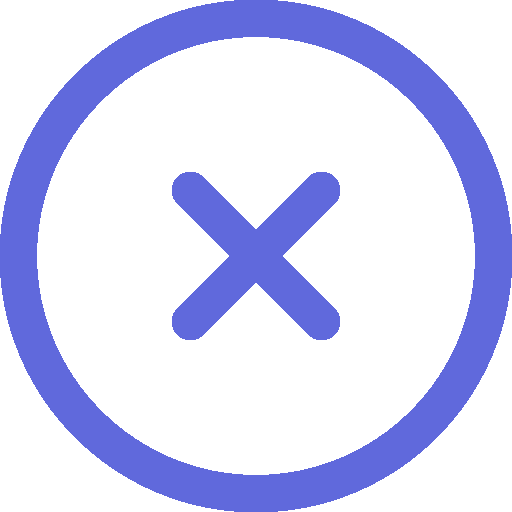
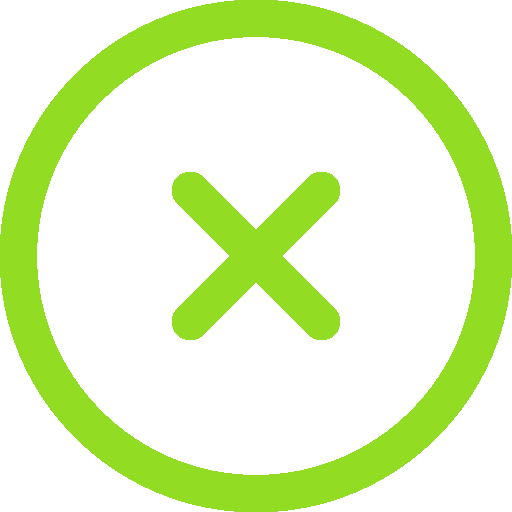
Added calendar widget

Changed region(s): [[0.0, 0.0, 1.0, 1.0], [0.3125, 0.3125, 0.6875, 0.6875]]

diff --git a/SmallLister.Web/wwwroot/lib/pickmeup/pickmeup.min.js b/SmallLister.Web/wwwroot/lib/pickmeup/pickmeup.min.js
@@ -1,0 +1,36 @@
+/*
+ 0BSD
+*/
+(function(F,y){"function"===typeof define&&define.amd?define(y):"object"===typeof exports?module.exports=y():F.pickmeup=y()})(this,function(){function F(a,c,b){b=b||[];if(a instanceof Element)c.apply(c,[a].concat(b));else{var d;var e=a.length;for(d=0;d<e;++d)c.apply(c,[a[d]].concat(b))}}function y(a){F(a,function(a){a.parentElement.removeChild(a)})}function J(a,c){do a=a.parentElement;while(a&&!B(a,c));return a}function B(a,c){return(a.matches||a.webkitMatchesSelector||a.msMatchesSelector).call(a,
+c)}function k(a,c){return a&&a.classList.contains(c)}function l(a,c){a.classList.add(c)}function q(a,c,b,d){if(-1!==b.indexOf(" ")){b=b.split(" ");var e=b.length,h;for(h=0;h<e;++h)q(a,c,b[h],d)}else a.__pickmeup.events.push([c,b,d]),c.addEventListener(b,d)}function z(a,c,b,d){var e;if(b&&-1!==b.indexOf(" ")){var h=b.split(" ");var l=h.length;for(e=0;e<l;++e)z(a,c,h[e],d)}else for(h=a.__pickmeup.events,l=h.length,e=0;e<l;++e)c&&c!==h[e][0]||b&&b!==h[e][1]||d&&d!==h[e][2]||h[e][0].removeEventListener(h[e][1],
+h[e][2])}function M(a){a=a.getBoundingClientRect();return{top:a.top+window.pageYOffset-document.documentElement.clientTop,left:a.left+window.pageXOffset-document.documentElement.clientLeft}}function C(a,c,b){var d=document.createEvent("Event");b&&(d.detail=b);d.initEvent("pickmeup-"+c,!1,!0);return a.dispatchEvent(d)}function K(a){a=new Date(a);for(var c=28,b=a.getMonth();a.getMonth()===b;)++c,a.setDate(c);return c-1}function A(a,c){a.setDate(a.getDate()+c)}function p(a,c){var b=a.getDate();a.setDate(1);
+a.setMonth(a.getMonth()+c);a.setDate(Math.min(b,K(a)))}function u(a,c){var b=a.getDate();a.setDate(1);a.setFullYear(a.getFullYear()+c);a.setDate(Math.min(b,K(a)))}function N(a){var c=a.__pickmeup.element,b=a.__pickmeup.options,d=Math.floor(b.calendars/2),e=b.date,h=b.current,m=b.min?new Date(b.min):null,v=b.max?new Date(b.max):null;m&&(m.setDate(1),p(m,1),A(m,-1));v&&(v.setDate(1),p(v,1),A(v,-1));y(Array.prototype.slice.call(c.querySelectorAll(".pmu-instance > :not(nav)")));for(var w=0;w<b.calendars;w++){var f=
+new Date(h);x(f);var n=Array.prototype.slice.call(c.querySelectorAll(".pmu-instance"))[w];if(k(c,"pmu-view-years")){u(f,12*(w-d));var G=f.getFullYear()-6+" - "+(f.getFullYear()+5)}else k(c,"pmu-view-months")?(u(f,w-d),G=f.getFullYear()):k(c,"pmu-view-days")&&(p(f,w-d),G="function"===typeof b.title_format?b.title_format(f,b.locales[b.locale]):D(f,b.title_format,b.locales[b.locale]));if(!r&&v){var r=new Date(f);b.select_day?p(r,b.calendars-1):b.select_month?u(r,b.calendars-1):u(r,12*(b.calendars-1));
+if(r>v){--w;p(h,-1);r=void 0;continue}}r=new Date(f);if(!g){var g=new Date(f);g.setDate(1);p(g,1);A(g,-1);if(m&&m>g){--w;p(h,1);g=void 0;continue}}n.querySelector(".pmu-month").innerHTML=G;var q=function(a){return"range"===b.mode&&a>=(new Date(e[0])).getFullYear()&&a<=(new Date(e[1])).getFullYear()||"multiple"===b.mode&&-1!==e.reduce(function(a,b){a.push((new Date(b)).getFullYear());return a},[]).indexOf(a)||(new Date(e)).getFullYear()===a},t=function(a,c){var d=(new Date(e[0])).getFullYear(),f=(new Date(e[1])).getFullYear(),
+h=(new Date(e[0])).getMonth(),g=(new Date(e[1])).getMonth();return"range"===b.mode&&(a>d&&a<f||a>d&&a===f&&c<=g||a===d&&a<f&&c>=h||a===d&&a===f&&c>=h&&c<=g)||"multiple"===b.mode&&-1!==e.reduce(function(a,b){b=new Date(b);a.push(b.getFullYear()+"-"+b.getMonth());return a},[]).indexOf(a+"-"+c)||(new Date(e)).getFullYear()===a&&(new Date(e)).getMonth()===c};(function(){var a=[],c=f.getFullYear()-6,d=(new Date(b.min)).getFullYear(),e=(new Date(b.max)).getFullYear(),h;for(h=0;12>h;++h){var g=c+h;var m=
+document.createElement("div");m.textContent=g;m.__pickmeup_year=g;b.min&&g<d||b.max&&g>e?l(m,"pmu-disabled"):q(g)&&l(m,"pmu-selected");a.push(m)}n.appendChild(b.instance_content_template(a,"pmu-years"))})();(function(){var a=[],c=f.getFullYear(),d=(new Date(b.min)).getFullYear(),e=(new Date(b.min)).getMonth(),g=(new Date(b.max)).getFullYear(),h=(new Date(b.max)).getMonth(),m;for(m=0;12>m;++m){var k=document.createElement("div");k.textContent=b.locales[b.locale].monthsShort[m];k.__pickmeup_month=m;
+k.__pickmeup_year=c;b.min&&(c<d||m<e&&c===d)||b.max&&(c>g||m>h&&c>=g)?l(k,"pmu-disabled"):t(c,m)&&l(k,"pmu-selected");a.push(k)}n.appendChild(b.instance_content_template(a,"pmu-months"))})();(function(){var a=[],c=f.getMonth(),d=x(new Date).valueOf(),e;(function(){f.setDate(1);var a=(f.getDay()-b.first_day)%7;A(f,-(a+(0>a?7:0)))})();for(e=0;42>e;++e){var g=document.createElement("div");g.textContent=f.getDate();g.__pickmeup_day=f.getDate();g.__pickmeup_month=f.getMonth();g.__pickmeup_year=f.getFullYear();
+c!==f.getMonth()&&l(g,"pmu-not-in-month");0===f.getDay()?l(g,"pmu-sunday"):6===f.getDay()&&l(g,"pmu-saturday");var h=b.render(new Date(f))||{};var m=x(new Date(f)).valueOf();var k=b.min&&b.min>f||b.max&&b.max<f;var v=b.date.valueOf()===m||b.date instanceof Array&&b.date.reduce(function(a,b){return a||m===b.valueOf()},!1)||"range"===b.mode&&m>=b.date[0]&&m<=b.date[1];h.disabled||!("disabled"in h)&&k?l(g,"pmu-disabled"):(h.selected||!("selected"in h)&&v)&&l(g,"pmu-selected");m===d&&l(g,"pmu-today");
+h.class_name&&h.class_name.split(" ").forEach(l.bind(g,g));a.push(g);A(f,1)}n.appendChild(b.instance_content_template(a,"pmu-days"))})()}g.setDate(1);r.setDate(1);p(r,1);A(r,-1);d=c.querySelector(".pmu-prev");c=c.querySelector(".pmu-next");d&&(d.style.visibility=b.min&&b.min>=g?"hidden":"visible");c&&(c.style.visibility=b.max&&b.max<=r?"hidden":"visible");C(a,"fill")}function t(a,c){var b=c.format,d=c.separator,e=c.locales[c.locale];if(a instanceof Date||"number"===typeof a)return x(new Date(a));
+if(!a)return x(new Date);if(a instanceof Array){a=a.slice();for(b=0;b<a.length;++b)a[b]=t(a[b],c);return a}d=a.split(d);if(1<d.length)return d.forEach(function(a,b,d){d[b]=t(a.trim(),c)}),d;d=[].concat(e.daysShort,e.daysMin,e.days,e.monthsShort,e.months);d=d.map(function(a){return"("+a+")"});d=new RegExp("[^0-9a-zA-Z"+d.join("")+"]+");a=a.split(d);d=b.split(d);var h=new Date;for(b=0;b<a.length;b++)switch(d[b]){case "b":var m=e.monthsShort.indexOf(a[b]);break;case "B":m=e.months.indexOf(a[b]);break;
+case "d":case "e":var l=parseInt(a[b],10);break;case "m":m=parseInt(a[b],10)-1;break;case "Y":case "y":var k=parseInt(a[b],10);k+=100<k?0:29>k?2E3:1900;break;case "H":case "I":case "k":case "l":var f=parseInt(a[b],10);break;case "P":case "p":/pm/i.test(a[b])&&12>f?f+=12:/am/i.test(a[b])&&12<=f&&(f-=12);break;case "M":var n=parseInt(a[b],10)}e=new Date(void 0===k?h.getFullYear():k,void 0===m?h.getMonth():m,void 0===l?h.getDate():l,void 0===f?h.getHours():f,void 0===n?h.getMinutes():n,0);isNaN(1*e)&&
+(e=new Date);return x(e)}function x(a){a.setHours(0,0,0,0);return a}function D(a,c,b){var d=a.getMonth(),e=a.getDate(),h=a.getFullYear(),m=a.getDay(),k=a.getHours(),l=12<=k,f=l?k-12:k;var n=new Date(a.getFullYear(),a.getMonth(),a.getDate(),0,0,0);var p=new Date(a.getFullYear(),0,0,0,0,0);n=Math.floor((n-p)/864E5);0===f&&(f=12);p=a.getMinutes();var r=a.getSeconds();c=c.split("");for(var g,q=0;q<c.length;q++){g=c[q];switch(g){case "a":g=b.daysShort[m];break;case "A":g=b.days[m];break;case "b":g=b.monthsShort[d];
+break;case "B":g=b.months[d];break;case "C":g=1+Math.floor(h/100);break;case "d":g=10>e?"0"+e:e;break;case "e":g=e;break;case "H":g=10>k?"0"+k:k;break;case "I":g=10>f?"0"+f:f;break;case "j":g=100>n?10>n?"00"+n:"0"+n:n;break;case "k":g=k;break;case "l":g=f;break;case "m":g=9>d?"0"+(1+d):1+d;break;case "M":g=10>p?"0"+p:p;break;case "p":case "P":g=l?"PM":"AM";break;case "s":g=Math.floor(a.getTime()/1E3);break;case "S":g=10>r?"0"+r:r;break;case "u":g=m+1;break;case "w":g=m;break;case "y":g=(""+h).substr(2,
+2);break;case "Y":g=h}c[q]=g}return c.join("")}function O(a,c){var b=a.__pickmeup.options,d;x(c);a:switch(b.mode){case "multiple":var e=c.valueOf();for(d=0;d<b.date.length;++d)if(b.date[d].valueOf()===e){b.date.splice(d,1);break a}b.date.push(c);break;case "range":b.lastSel||(b.date[0]=c);c<=b.date[0]?(b.date[1]=b.date[0],b.date[0]=c):b.date[1]=c;b.lastSel=!b.lastSel;break;default:b.date=c.valueOf()}c=H(b);B(a,"input")&&(a.value="single"===b.mode?c.formatted_date:c.formatted_date.join(b.separator));
+C(a,"change",c);b.flat||!b.hide_on_select||"range"===b.mode&&b.lastSel||b.bound.hide()}function P(a,c){var b=c.target;k(b,"pmu-button")||(b=J(b,".pmu-button"));if(!k(b,"pmu-button")||k(b,"pmu-disabled"))return!1;c.preventDefault();c.stopPropagation();a=a.__pickmeup.options;var d=J(b,".pmu-instance");c=d.parentElement;d=Array.prototype.slice.call(c.querySelectorAll(".pmu-instance")).indexOf(d);B(b.parentElement,"nav")?k(b,"pmu-month")?(p(a.current,d-Math.floor(a.calendars/2)),k(c,"pmu-view-years")?
+(a.current="single"!==a.mode?new Date(a.date[a.date.length-1]):new Date(a.date),a.select_day?(c.classList.remove("pmu-view-years"),l(c,"pmu-view-days")):a.select_month&&(c.classList.remove("pmu-view-years"),l(c,"pmu-view-months"))):k(c,"pmu-view-months")?a.select_year?(c.classList.remove("pmu-view-months"),l(c,"pmu-view-years")):a.select_day&&(c.classList.remove("pmu-view-months"),l(c,"pmu-view-days")):k(c,"pmu-view-days")&&(a.select_month?(c.classList.remove("pmu-view-days"),l(c,"pmu-view-months")):
+a.select_year&&(c.classList.remove("pmu-view-days"),l(c,"pmu-view-years")))):k(b,"pmu-prev")?a.bound.prev(!1):a.bound.next(!1):k(c,"pmu-view-years")?(a.current.setFullYear(b.__pickmeup_year),a.select_month?(c.classList.remove("pmu-view-years"),l(c,"pmu-view-months")):a.select_day?(c.classList.remove("pmu-view-years"),l(c,"pmu-view-days")):a.bound.update_date(a.current)):k(c,"pmu-view-months")?(a.current.setMonth(b.__pickmeup_month),a.current.setFullYear(b.__pickmeup_year),a.select_day?(c.classList.remove("pmu-view-months"),
+l(c,"pmu-view-days")):a.bound.update_date(a.current),p(a.current,Math.floor(a.calendars/2)-d)):(c=new Date(a.current),c.setYear(b.__pickmeup_year),c.setMonth(b.__pickmeup_month),c.setDate(b.__pickmeup_day),a.bound.update_date(c));a.bound.fill();return!0}function H(a){if("single"===a.mode){var c=new Date(a.date);return{formatted_date:D(c,a.format,a.locales[a.locale]),date:c}}c={formatted_date:[],date:[]};a.date.forEach(function(b){b=new Date(b);c.formatted_date.push(D(b,a.format,a.locales[a.locale]));
+c.date.push(b)});return c}function I(a,c){var b=a.__pickmeup.element;if(c||k(b,"pmu-hidden")){var d=a.__pickmeup.options,e=M(a),h=window.pageXOffset,m=window.pageYOffset,l=document.documentElement.clientWidth,p=document.documentElement.clientHeight,f=e.top,n=e.left;d.bound.fill();B(a,"input")&&((c=a.value)&&d.bound.set_date(c),q(a,a,"keydown",function(a){9===a.which&&d.bound.hide()}),d.lastSel=!1);if(C(a,"show")&&!d.flat){b.classList.remove("pmu-hidden");if(d.position instanceof Function)e=d.position.call(a),
+n=e.left,f=e.top;else{switch(d.position){case "top":f-=b.offsetHeight;break;case "left":n-=b.offsetWidth;break;case "right":n+=a.offsetWidth;break;case "bottom":f+=a.offsetHeight}f+b.offsetHeight>m+p&&(f=e.top-b.offsetHeight);f<m&&(f=e.top+a.offsetHeight);n+b.offsetWidth>h+l&&(n=e.left-b.offsetWidth);n<h&&(n=e.left+a.offsetWidth);n+="px";f+="px"}b.style.left=n;b.style.top=f;setTimeout(function(){q(a,document.documentElement,"click",d.bound.hide);q(a,window,"resize",d.bound.forced_show)})}}}function Q(a,
+c){var b=a.__pickmeup.element,d=a.__pickmeup.options;c&&c.target&&(c.target===a||b.compareDocumentPosition(c.target)&16)||!C(a,"hide")||(l(b,"pmu-hidden"),z(a,document.documentElement,"click",d.bound.hide),z(a,window,"resize",d.bound.forced_show),d.lastSel=!1)}function R(a){var c=a.__pickmeup.options;z(a,document.documentElement,"click",c.bound.hide);z(a,window,"resize",c.bound.forced_show);c.bound.forced_show()}function S(a){a=a.__pickmeup.options;"single"!==a.mode&&(a.date=[],a.lastSel=!1,a.bound.fill())}
+function T(a,c){"undefined"==typeof c&&(c=!0);var b=a.__pickmeup.element;a=a.__pickmeup.options;k(b,"pmu-view-years")?u(a.current,-12):k(b,"pmu-view-months")?u(a.current,-1):k(b,"pmu-view-days")&&p(a.current,-1);c&&a.bound.fill()}function U(a,c){"undefined"==typeof c&&(c=!0);var b=a.__pickmeup.element;a=a.__pickmeup.options;k(b,"pmu-view-years")?u(a.current,12):k(b,"pmu-view-months")?u(a.current,1):k(b,"pmu-view-days")&&p(a.current,1);c&&a.bound.fill()}function V(a,c){var b=a.__pickmeup.options;a=
+H(b);return"string"===typeof c?(a=a.date,a instanceof Date?D(a,c,b.locales[b.locale]):a.map(function(a){return D(a,c,b.locales[b.locale])})):a[c?"formatted_date":"date"]}function W(a,c,b){var d=a.__pickmeup.options;if(!(c instanceof Array)||0<c.length)if(d.date=t(c,d),"single"!==d.mode)for(d.date instanceof Array?(d.date[0]=d.date[0]||t(new Date,d),"range"===d.mode&&(d.date[1]=d.date[1]||t(d.date[0],d))):(d.date=[d.date],"range"===d.mode&&d.date.push(t(d.date[0],d))),c=0;c<d.date.length;++c)d.date[c]=
+L(d.date[c],d.min,d.max);else d.date instanceof Array&&(d.date=d.date[0]),d.date=L(d.date,d.min,d.max);else d.date=[];if(!d.select_day)if(d.date instanceof Array)for(c=0;c<d.date.length;++c)d.date[c].setDate(1);else d.date.setDate(1);if("multiple"===d.mode)for(c=0;c<d.date.length;++c)d.date.indexOf(d.date[c])!==c&&(d.date.splice(c,1),--c);b?d.current=t(b,d):(b="single"===d.mode?d.date:d.date[d.date.length-1],d.current=b?new Date(b):new Date);d.current.setDate(1);d.bound.fill();B(a,"input")&&!1!==
+d.default_date&&(b=H(d),c=a.value,d="single"===d.mode?b.formatted_date:b.formatted_date.join(d.separator),c||C(a,"change",b),c!==d&&(a.value=d))}function X(a){var c=a.__pickmeup.element;z(a);y(c);delete a.__pickmeup}function L(a,c,b){return c&&c>a?new Date(c):b&&b<a?new Date(b):a}function E(a,c){"string"==typeof a&&(a=document.querySelector(a));if(!a)return null;if(!a.__pickmeup){var b,d={};c=c||{};for(b in E.defaults)d[b]=b in c?c[b]:E.defaults[b];for(b in d)c=a.getAttribute("data-pmu-"+b),null!==
+c&&(d[b]=c);"days"!==d.view||d.select_day||(d.view="months");"months"!==d.view||d.select_month||(d.view="years");"years"!==d.view||d.select_year||(d.view="days");"days"!==d.view||d.select_day||(d.view="months");d.calendars=Math.max(1,parseInt(d.calendars,10)||1);d.mode=/single|multiple|range/.test(d.mode)?d.mode:"single";d.min&&(d.min=t(d.min,d),d.select_day||d.min.setDate(1));d.max&&(d.max=t(d.max,d),d.select_day||d.max.setDate(1));c=document.createElement("div");a.__pickmeup={options:d,events:[],
+element:c};c.__pickmeup_target=a;l(c,"pickmeup");d.class_name&&l(c,d.class_name);d.bound={fill:N.bind(a,a),update_date:O.bind(a,a),click:P.bind(a,a),show:I.bind(a,a),forced_show:I.bind(a,a,!0),hide:Q.bind(a,a),update:R.bind(a,a),clear:S.bind(a,a),prev:T.bind(a,a),next:U.bind(a,a),get_date:V.bind(a,a),set_date:W.bind(a,a),destroy:X.bind(a,a)};l(c,"pmu-view-"+d.view);var e=d.instance_template(d),h="";for(b=0;b<d.calendars;++b)h+=e;c.innerHTML=h;q(a,c,"click",d.bound.click);q(a,c,"onselectstart"in Element.prototype?
+"selectstart":"mousedown",function(a){a.preventDefault()});d.flat?(l(c,"pmu-flat"),a.appendChild(c)):(l(c,"pmu-hidden"),document.body.appendChild(c),q(a,a,"click",I.bind(a,a,!1)),q(a,a,"input",d.bound.update),q(a,a,"change",d.bound.update));d.bound.set_date(d.date,d.current)}d=a.__pickmeup.options;return{hide:d.bound.hide,show:d.bound.show,clear:d.bound.clear,update:d.bound.update,prev:d.bound.prev,next:d.bound.next,get_date:d.bound.get_date,set_date:d.bound.set_date,destroy:d.bound.destroy}}E.defaults=
+{current:null,date:new Date,default_date:new Date,flat:!1,first_day:1,prev:"&#9664;",next:"&#9654;",mode:"single",select_year:!0,select_month:!0,select_day:!0,view:"days",calendars:1,format:"d-m-Y",title_format:"B, Y",position:"bottom",class_name:"",separator:" - ",hide_on_select:!1,min:null,max:null,render:function(){},locale:"en",locales:{en:{days:"Sunday Monday Tuesday Wednesday Thursday Friday Saturday".split(" "),daysShort:"Sun Mon Tue Wed Thu Fri Sat".split(" "),daysMin:"Su Mo Tu We Th Fr Sa".split(" "),
+months:"January February March April May June July August September October November December".split(" "),monthsShort:"Jan Feb Mar Apr May Jun Jul Aug Sep Oct Nov Dec".split(" ")}},instance_template:function(a){var c=a.locales[a.locale].daysMin.slice();a.first_day&&c.push(c.shift());return'<div class="pmu-instance"><nav><div class="pmu-prev pmu-button">'+a.prev+'</div><div class="pmu-month pmu-button"></div><div class="pmu-next pmu-button">'+a.next+'</div></nav><nav class="pmu-day-of-week"><div>'+
+c.join("</div><div>")+"</div></nav></div>"},instance_content_template:function(a,c){var b=document.createElement("div");l(b,c);for(c=0;c<a.length;++c)l(a[c],"pmu-button"),b.appendChild(a[c]);return b}};return E});

diff --git a/SmallLister.Web/wwwroot/css/smalllister.min.css b/SmallLister.Web/wwwroot/css/smalllister.min.css
@@ -1,1 +1,1 @@
-body{background-color:#fffcf4}body,h1,h2,p,div,span,input,button,textarea,select,legend,a{font-family:'Segoe UI',Tahoma,Geneva,Verdana,sans-serif;font-size:12pt}h1{font-size:14pt;padding:0;margin:0;font-weight:bold}h2{font-size:13pt;padding:0;margin:0 0 10px 0;font-weight:bold}a,a:link,a:visited{color:#000}a:hover{text-decoration:none}header{display:-webkit-flex;display:flex;background-color:#60c4dc;border-bottom:solid #60dc87 2px}nav.navbar-header{min-width:200px;-webkit-flex:0;-ms-flex:0;flex:0;padding:10px}nav.navbar-header a{text-decoration:none}nav.navbar-header span{font-size:16pt;vertical-align:top;padding:0 0 0 0;margin:0 10px 0 0;display:inline-block}nav.navbar-main{-webkit-flex:1;-ms-flex:1;flex:1;padding:10px}.nav-show,.nav-close{cursor:pointer;display:none}.navbar-nav{float:right}main{display:-webkit-flex;display:flex}aside{min-width:200px;-webkit-flex:0;-ms-flex:0;flex:0;padding:10px;background-color:#60c4dc}aside ul{list-style-type:none;padding:0}aside ul li{margin:0;padding:0 0 20px 10px;list-style:none;border-top:2px solid #60c4dc}aside ul li:hover,aside ul li.sml-selected{color:#60dc87;border-top:2px solid #60dc87}span.sml-toolbar{float:right}span.sml-toolbar a{color:#fff}ul.sml-list,ul.sml-list-item{margin:0;padding:0;list-style:none}li.sml-list{border-top:2px solid #60c4dc;display:flex;padding:3px}ul.sml-list{border-bottom:2px solid #60c4dc}ul.sml-list-item{width:100%}ul.sml-list-item>li{display:flex;background-color:#b6b9dc;margin:2px}ul.sml-list-item>li>div:nth-child(2)>form{display:inline}ul.sml-list-item>li>div:nth-child(2){flex-grow:1}ul.sml-list-item>li>div:last-child{width:130px}ul.sml-list-item>li>div{padding:0 10px 0 0}article{-webkit-flex:1;-ms-flex:1;flex:1;padding:10px;background-color:#fff}footer{border-top:solid #60dc87 1px;padding:10px;text-align:center;font-size:10pt}body.dragging,body.dragging *{cursor:move !important}.dragged{position:absolute;opacity:.5;z-index:2000}ul.sml-list li.placeholder{position:relative;background:#60c4dc;padding:1px 1px;clear:both}ul.sml-list li.placeholder:before{position:absolute}.sml-list-item-drag-handle{cursor:move}@media(max-width:600px){header{-webkit-flex-direction:column;flex-direction:column}aside{display:none}.nav-show{display:inline}ul.sml-list-item>li{flex-direction:column}}@media(prefers-color-scheme:dark){body{background-color:#000}article{background-color:#000;color:#fff}footer{color:#fff}ul.sml-list-item>li,span.selected{color:#000}}
+body{background-color:#fffcf4}body,h1,h2,p,div,span,input,button,textarea,select,legend,a{font-family:'Segoe UI',Tahoma,Geneva,Verdana,sans-serif;font-size:12pt}h1{font-size:14pt;padding:0;margin:0;font-weight:bold}h2{font-size:13pt;padding:0;margin:0 0 10px 0;font-weight:bold}a,a:link,a:visited{color:#000}a:hover{text-decoration:none}header{display:-webkit-flex;display:flex;background-color:#60c4dc;border-bottom:solid #60dc87 2px}nav.navbar-header{min-width:200px;-webkit-flex:0;-ms-flex:0;flex:0;padding:10px}nav.navbar-header a{text-decoration:none}nav.navbar-header span{font-size:16pt;vertical-align:top;padding:0 0 0 0;margin:0 10px 0 0;display:inline-block}nav.navbar-main{-webkit-flex:1;-ms-flex:1;flex:1;padding:10px}.nav-show,.nav-close{cursor:pointer;display:none}.navbar-nav{float:right}main{display:-webkit-flex;display:flex}aside{min-width:200px;-webkit-flex:0;-ms-flex:0;flex:0;padding:10px;background-color:#60c4dc}aside ul{list-style-type:none;padding:0}aside ul li{margin:0;padding:0 0 20px 10px;list-style:none;border-top:2px solid #60c4dc}aside ul li:hover,aside ul li.sml-selected{color:#60dc87;border-top:2px solid #60dc87}span.sml-toolbar{float:right}span.sml-toolbar a{color:#fff}ul.sml-list,ul.sml-list-item{margin:0;padding:0;list-style:none}li.sml-list{border-top:2px solid #60c4dc;display:flex;padding:3px}ul.sml-list{border-bottom:2px solid #60c4dc}ul.sml-list-item{width:100%}ul.sml-list-item>li{display:flex;background-color:#b6b9dc;margin:2px}ul.sml-list-item>li>div:nth-child(2)>form{display:inline}ul.sml-list-item>li>div:nth-child(2){flex-grow:1}ul.sml-list-item>li>div:last-child{width:130px}ul.sml-list-item>li>div{padding:0 10px 0 0}input.sml-list-add-title{width:200px}article{-webkit-flex:1;-ms-flex:1;flex:1;padding:10px;background-color:#fff}footer{border-top:solid #60dc87 1px;padding:10px;text-align:center;font-size:10pt}body.dragging,body.dragging *{cursor:move !important}.dragged{position:absolute;opacity:.5;z-index:2000}ul.sml-list li.placeholder{position:relative;background:#60c4dc;padding:1px 1px;clear:both}ul.sml-list li.placeholder:before{position:absolute}.sml-list-item-drag-handle{cursor:move}@media(max-width:600px){header{-webkit-flex-direction:column;flex-direction:column}aside{display:none}.nav-show{display:inline}ul.sml-list-item>li{flex-direction:column}}@media(prefers-color-scheme:dark){body{background-color:#000}article{background-color:#000;color:#fff}footer{color:#fff}ul.sml-list-item>li,span.selected{color:#000}}

diff --git a/SmallLister.Web/wwwroot/js/smalllister.min.js b/SmallLister.Web/wwwroot/js/smalllister.min.js
@@ -1,1 +1,1 @@
-function smlInitialise(){smlInitialiseNav();$("ul.sml-list").sortable({handle:".sml-list-item-drag-handle",isValidTarget:function(n,t){return t.el[0].className.includes("sml-list-item")},onDrop:function(n,t,i,r){i(n,t,r);let u=n.attr("data-meal"),f=n.parent("ul").attr("data-day");if(typeof u!="undefined"&&typeof f!="undefined"){let t=parseInt(n.prev("li").attr("data-meal"));$.ajax({url:"/api/planner/"+u+"/move",type:"PUT",data:JSON.stringify({date:f,sortOrderPreviousPlannerMealId:t==NaN?null:t}),contentType:"application/json; charset=utf-8",dataType:"json"});return}let e=n.attr("data-shoppinglistitem");if(typeof e!="undefined"){let t=parseInt(n.prev("li").attr("data-shoppinglistitem"));$.ajax({url:"/api/shoppinglist/"+e+"/move",type:"PUT",data:JSON.stringify({sortOrderPreviousShoppingListItemId:t==NaN?null:t}),contentType:"application/json; charset=utf-8",dataType:"json"});return}}});$("button[data-depends]").each(function(){let n=$(this),t=$(n.attr("data-depends"));t.on("keypress",function(t){if(n.attr("disabled")&&(t.keyCode||t.which)===13)return t.preventDefault(),!1});t.on("change input paste keyup",function(){let t=$(this).val();n.prop("disabled",t===null||t.match(/^\s*$/)!==null)});t.trigger("change")});$("form[data-confirm]").submit(function(n){if(!confirm($(this).attr("data-confirm")))return n.preventDefault(),!1})}function smlInitialiseNav(){$(window).resize(function(){$("aside").css("display","");$(".nav-close:visible").length>0&&($(".nav-close").css("display",""),$(".nav-show").css("display",""))});$(".nav-show").click(function(){$("aside").fadeToggle("fast");$(this).hide();$(".nav-close").show()});$(".nav-close").click(function(){$("aside").hide();$(this).hide();$(".nav-show").show()});$("[data-href]").click(function(){window.location.href=$(this).attr("data-href")})}
+function smlInitialise(){smlInitialiseNav();$("ul.sml-list").sortable({handle:".sml-list-item-drag-handle",isValidTarget:function(n,t){return t.el[0].className.includes("sml-list-item")},onDrop:function(n,t,i,r){i(n,t,r);let u=n.attr("data-listitem");if(typeof u!="undefined"){let t=parseInt(n.prev("li").attr("data-listitem"));$.ajax({url:"/api/lists/"+u+"/move",type:"PUT",data:JSON.stringify({sortOrderPreviousListItemId:t==NaN?null:t}),contentType:"application/json; charset=utf-8",dataType:"json"});return}}});$("button[data-depends]").each(function(){let n=$(this),t=$(n.attr("data-depends"));t.on("keypress",function(t){if(n.attr("disabled")&&(t.keyCode||t.which)===13)return t.preventDefault(),!1});t.on("change input paste keyup",function(){let t=$(this).val();n.prop("disabled",t===null||t.match(/^\s*$/)!==null)});t.trigger("change")});$("form[data-confirm]").submit(function(n){if(!confirm($(this).attr("data-confirm")))return n.preventDefault(),!1})}function smlInitialiseNav(){$(window).resize(function(){$("aside").css("display","");$(".nav-close:visible").length>0&&($(".nav-close").css("display",""),$(".nav-show").css("display",""))});$(".nav-show").click(function(){$("aside").fadeToggle("fast");$(this).hide();$(".nav-close").show()});$(".nav-close").click(function(){$("aside").hide();$(this).hide();$(".nav-show").show()});$("[data-href]").click(function(){window.location.href=$(this).attr("data-href")})}

diff --git a/SmallLister.Web/wwwroot/lib/pickmeup/css/pickmeup.css b/SmallLister.Web/wwwroot/lib/pickmeup/css/pickmeup.css
@@ -1,0 +1,1 @@
+.pickmeup{background:#000;border-radius:.4em;-moz-box-sizing:content-box;box-sizing:content-box;display:inline-block;position:absolute;touch-action:manipulation}.pickmeup *{-moz-box-sizing:border-box;box-sizing:border-box}.pickmeup.pmu-flat{position:relative}.pickmeup.pmu-hidden{display:none}.pickmeup .pmu-instance{display:inline-block;height:13.8em;padding:.5em;text-align:center;width:15em}.pickmeup .pmu-instance .pmu-button{color:#eee;cursor:pointer;outline:none;text-decoration:none}.pickmeup .pmu-instance .pmu-today{background:#17384d;color:#88c5eb}.pickmeup .pmu-instance .pmu-button:hover{background:transparent;color:#88c5eb}.pickmeup .pmu-instance .pmu-not-in-month{color:#666}.pickmeup .pmu-instance .pmu-disabled,.pickmeup .pmu-instance .pmu-disabled:hover{color:#333;cursor:default}.pickmeup .pmu-instance .pmu-selected{background:#136a9f;color:#eee}.pickmeup .pmu-instance .pmu-not-in-month.pmu-selected{background:#17384d}.pickmeup .pmu-instance nav{color:#eee;display:-ms-flexbox;display:-webkit-flex;display:flex;line-height:2em}.pickmeup .pmu-instance nav *:first-child :hover{color:#88c5eb}.pickmeup .pmu-instance nav .pmu-prev,.pickmeup .pmu-instance nav .pmu-next{display:none;height:2em;width:1em}.pickmeup .pmu-instance nav .pmu-month{width:14em}.pickmeup .pmu-instance .pmu-years *,.pickmeup .pmu-instance .pmu-months *{display:inline-block;line-height:3.6em;width:3.5em}.pickmeup .pmu-instance .pmu-day-of-week{color:#999;cursor:default}.pickmeup .pmu-instance .pmu-day-of-week *,.pickmeup .pmu-instance .pmu-days *{display:inline-block;line-height:1.5em;width:2em}.pickmeup .pmu-instance .pmu-day-of-week *{line-height:1.8em}.pickmeup .pmu-instance:first-child .pmu-prev,.pickmeup .pmu-instance:last-child .pmu-next{display:block}.pickmeup .pmu-instance:first-child .pmu-month,.pickmeup .pmu-instance:last-child .pmu-month{width:13em}.pickmeup .pmu-instance:first-child:last-child .pmu-month{width:12em}.pickmeup:not(.pmu-view-days) .pmu-days,.pickmeup:not(.pmu-view-days) .pmu-day-of-week,.pickmeup:not(.pmu-view-months) .pmu-months,.pickmeup:not(.pmu-view-years) .pmu-years{display:none}

diff --git a/SmallLister.Web/wwwroot/css/smalllister.css b/SmallLister.Web/wwwroot/css/smalllister.css
@@ -45,8 +45,8 @@ a:hover {
 header {
     display: -webkit-flex;
     display: flex;
-    background-color: #60c4dc;
-    border-bottom: solid #60dc87 2px;
+    background-color: #23dbdd;
+    border-bottom: solid #92dd23 2px;
 }
 
 nav.navbar-header {
@@ -97,7 +97,7 @@ aside {
     -ms-flex: 0;
     flex: 0;
     padding: 10px;
-    background-color: #60c4dc;
+    background-color: #23dbdd;
 }
 
 aside ul {
@@ -109,13 +109,13 @@ aside ul li {
     margin: 0;
     padding: 0 0 20px 10px;
     list-style: none;
-    border-top: 2px solid #60c4dc;
+    border-top: 2px solid #23dbdd;
 }
 
 aside ul li:hover,
 aside ul li.sml-selected {
-    color: #60dc87;
-    border-top: 2px solid #60dc87;
+    color: #92dd23;
+    border-top: 2px solid #92dd23;
 }
 
 span.sml-toolbar {
@@ -134,13 +134,13 @@ ul.sml-list-item {
 }
 
 li.sml-list {
-    border-top: 2px solid #60c4dc;
+    border-top: 2px solid #23dbdd;
     display: flex;
     padding: 3px;
 }
 
 ul.sml-list {
-    border-bottom: 2px solid #60c4dc;
+    border-bottom: 2px solid #23dbdd;
 }
 
 ul.sml-list-item {
@@ -149,7 +149,7 @@ ul.sml-list-item {
 
 ul.sml-list-item>li {
     display: flex;
-    background-color: #b6b9dc;
+    background-color: #92d3d4;
     margin: 2px;
 }
 
@@ -169,6 +169,10 @@ ul.sml-list-item>li>div {
     padding: 0 10px 0 0;
 }
 
+input.sml-list-add-title {
+    width: 200px;
+}
+
 article {
     -webkit-flex: 1;
     -ms-flex: 1;
@@ -178,7 +182,7 @@ article {
 }
 
 footer {
-    border-top: solid #60dc87 1px;
+    border-top: solid #92dd23 1px;
     padding: 10px;
     text-align: center;
     font-size: 10pt;
@@ -197,7 +201,7 @@ body.dragging * {
 
 ul.sml-list li.placeholder {
     position: relative;
-    background: #60c4dc;
+    background: #23dbdd;
     padding: 1px 1px;
     clear: both;
 }

diff --git a/setup.md b/setup.md
@@ -12,6 +12,7 @@ dotnet tool install -g Microsoft.Web.LibraryManager.Cli
 libman init
 libman install jquery@3.5.0 --destination wwwroot/lib/jquery --files jquery.min.js
 libman install jquery-sortable@0.9.13 --destination wwwroot/lib/jquery-sortable --files jquery-sortable-min.js
+libman install PickMeUp@3.2.1 --destination wwwroot/lib/pickmeup --files pickmeup.min.js --files css/pickmeup.css
 
 ## References
 
